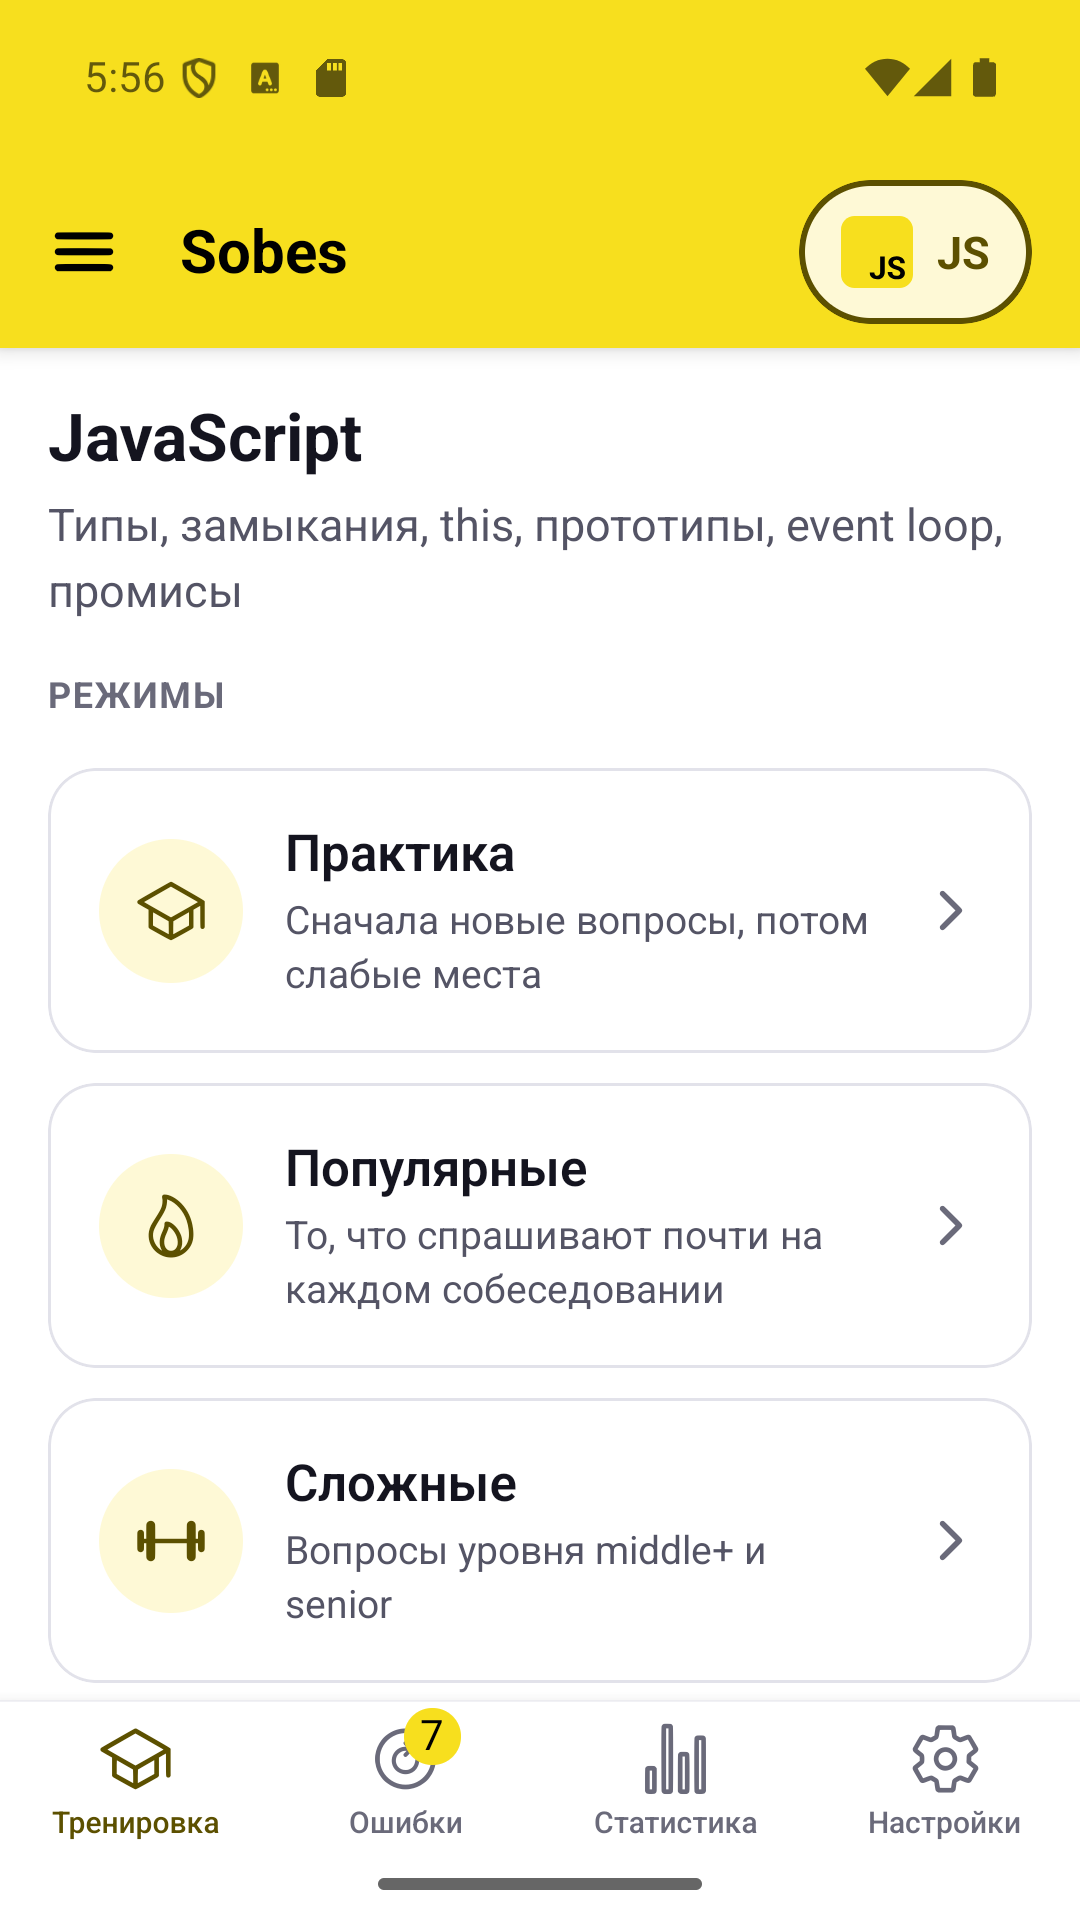
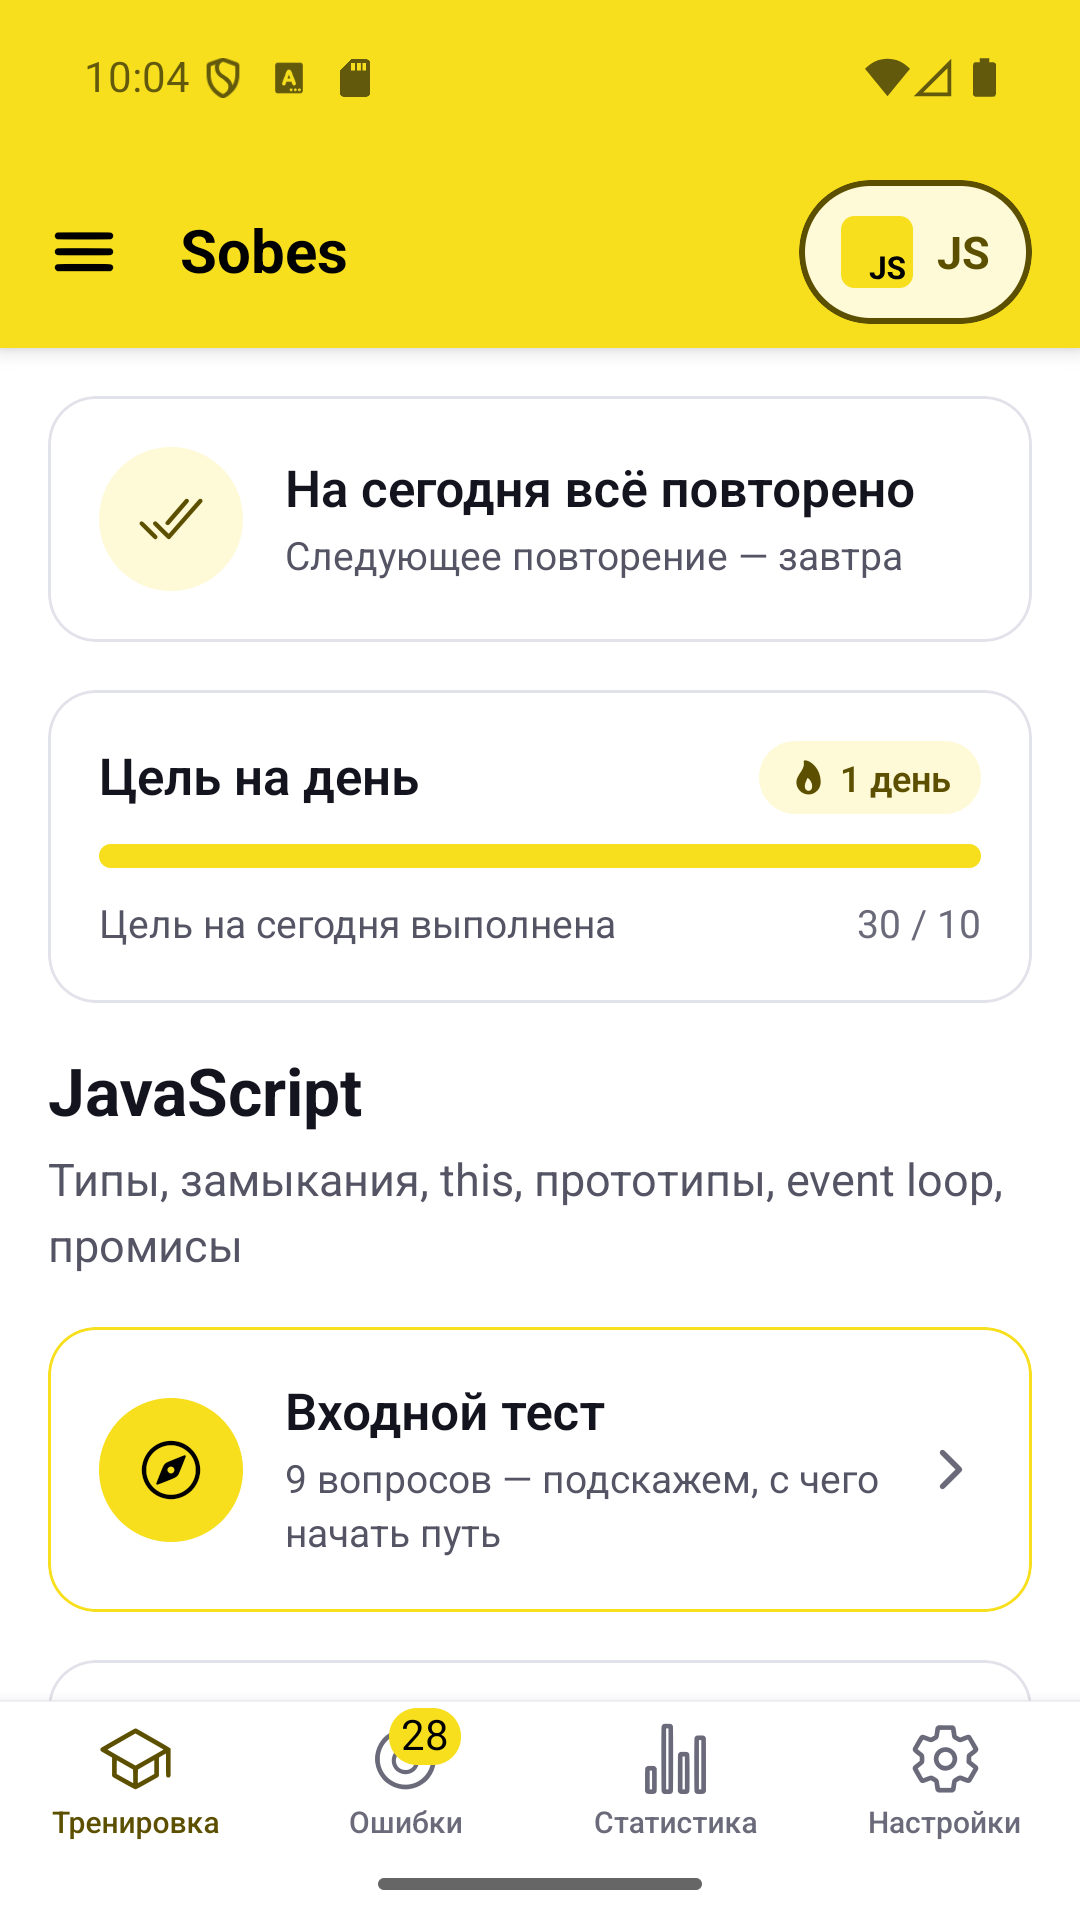
docs: store texts, changelog and screenshots for the new features (roadmap R4-3)

diff --git a/docs/store/rustore.md b/docs/store/rustore.md
@@ -18,6 +18,9 @@ Sobes помогает подготовиться к собеседованию 
 • Вопрос и пять вариантов ответа. Не знаешь — нажми «Не знаю», и вопрос попадёт в работу над ошибками.
 • После каждого ответа — разбор: почему верный ответ верен и в чём подвох неверных. Сложные темы (event loop, цепочка прототипов, рендер React, бинарный поиск) показаны пошаговыми схемами.
 • Под разбором — ссылки на первоисточники: MDN, react.dev, документацию TypeScript.
+• К каждой теме — конспект: короткая теория с кодом и схемами и список «Запомнить».
+• Путь по теме ведёт от основ к сложному: конспект, практика, отметка «пройдено». Входной тест из 9 вопросов подскажет, с чего начать.
+• Интервальное повторение: отвеченный вопрос вернётся через 1, 3, 7, 16 и 35 дней — так знания держатся дольше.
 
 Темы: JavaScript, TypeScript, React, Web (браузер, сеть, безопасность), CSS, алгоритмы, ИИ и LLM. Всего 275 вопросов уровней junior, middle и senior.
 
@@ -27,8 +30,9 @@ Sobes помогает подготовиться к собеседованию 
 • Сложные — вопросы уровня middle+ и senior.
 • Собеседование — 15 вопросов на время и оценка уровня в конце.
 • Работа над ошибками — вопрос уходит из ошибок после двух верных ответов подряд.
+• Повторение — вопросы, которые пора вспомнить сегодня.
 
-Статистика покажет точность, слабые места по темам и серию дней. Кнопка «Спросить ИИ» откроет вопрос во внешнем ИИ-сервисе, если хочется разобраться глубже.
+Цель на день, серия дней и достижения помогают заниматься регулярно. Статистика покажет точность и слабые места по темам. Кнопка «Спросить ИИ» откроет вопрос во внешнем ИИ-сервисе, если хочется разобраться глубже.
 
 Код в вопросах проверен запуском: ответы про вывод JavaScript, типы TypeScript и вычисленные стили CSS сверены с реальным Node.js, компилятором TypeScript и браузером.
 
@@ -54,11 +58,13 @@ Sobes помогает подготовиться к собеседованию 
 
 `docs/store/screenshots/` — 1080×1920 (360 dp, 9:16), порядок загрузки по номеру:
 
-1. `01-home-light.png` — главная JavaScript с режимами;
+1. `01-home-light.png` — главная JavaScript: повторение, цель на день, входной тест;
 2. `02-question-code-light.png` — вопрос «Что выведет код?»;
 3. `03-diagram-dark.png` — разбор с пошаговой схемой event loop;
 4. `04-stats-light.png` — статистика и слабые места;
-5. `05-topics-dark.png` — выбор темы.
+5. `05-topics-dark.png` — выбор темы;
+6. `06-lesson-light.png` — конспект «Замыкания» с кодом;
+7. `07-path-light.png` — путь по JavaScript.
 
 Снято на эмуляторе: `adb shell wm size 1080x1920` + `wm density 480`, после — `wm size reset` и `wm density reset`.
 

diff --git a/CHANGELOG.md b/CHANGELOG.md
@@ -7,6 +7,9 @@
 - 275 вопросов для подготовки к собеседованию фронтенд-разработчика: JavaScript, TypeScript, React, Web, CSS, алгоритмы, ИИ и LLM.
 - Режимы: практика, популярные вопросы, сложные, собеседование на время, работа над ошибками.
 - Разбор каждого ответа с источниками и пошаговыми схемами.
+- Конспекты по всем 73 темам вопросов и путь по каждому направлению — от основ к сложному, с входным тестом.
+- Интервальное повторение: «Повторить сегодня» на главной.
+- Цель на день, серия дней и достижения.
 - Статистика: точность, слабые места, серия дней.
 - «Спросить ИИ» — открывает вопрос во внешнем ИИ-сервисе.
 - Светлая и тёмная тема, русский и английский языки.
